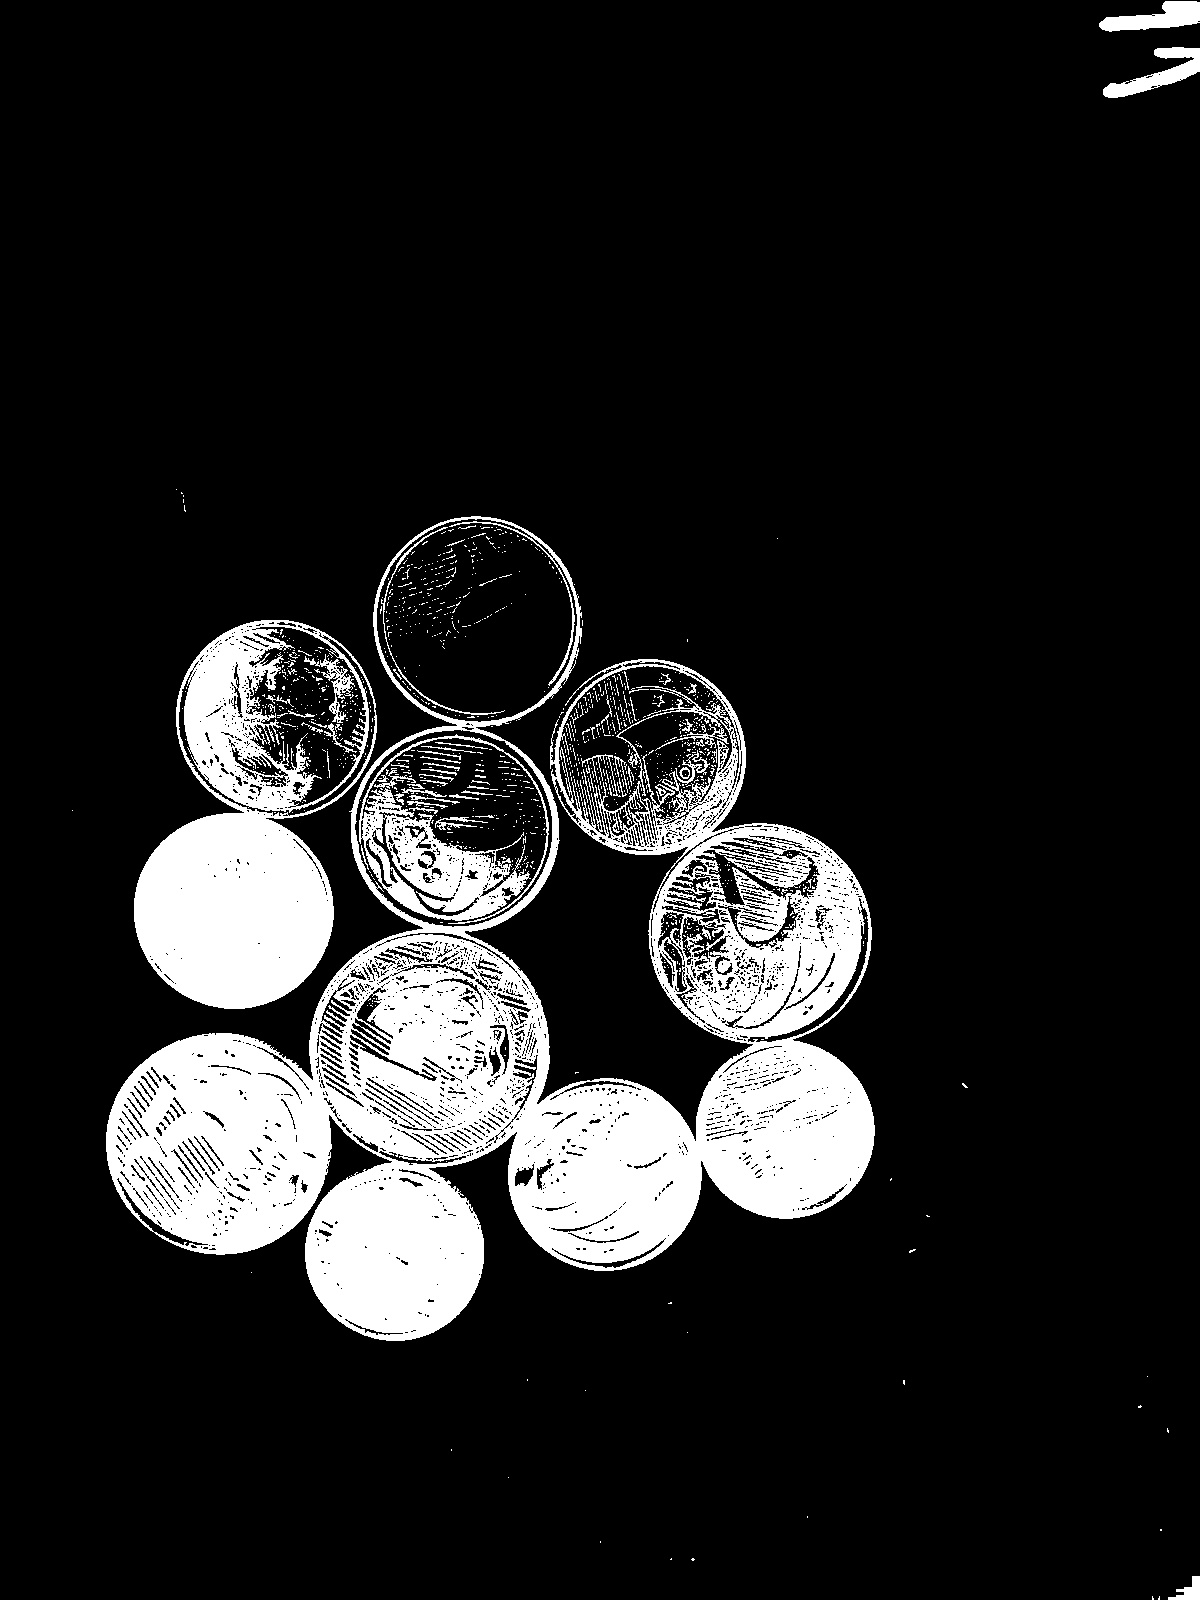
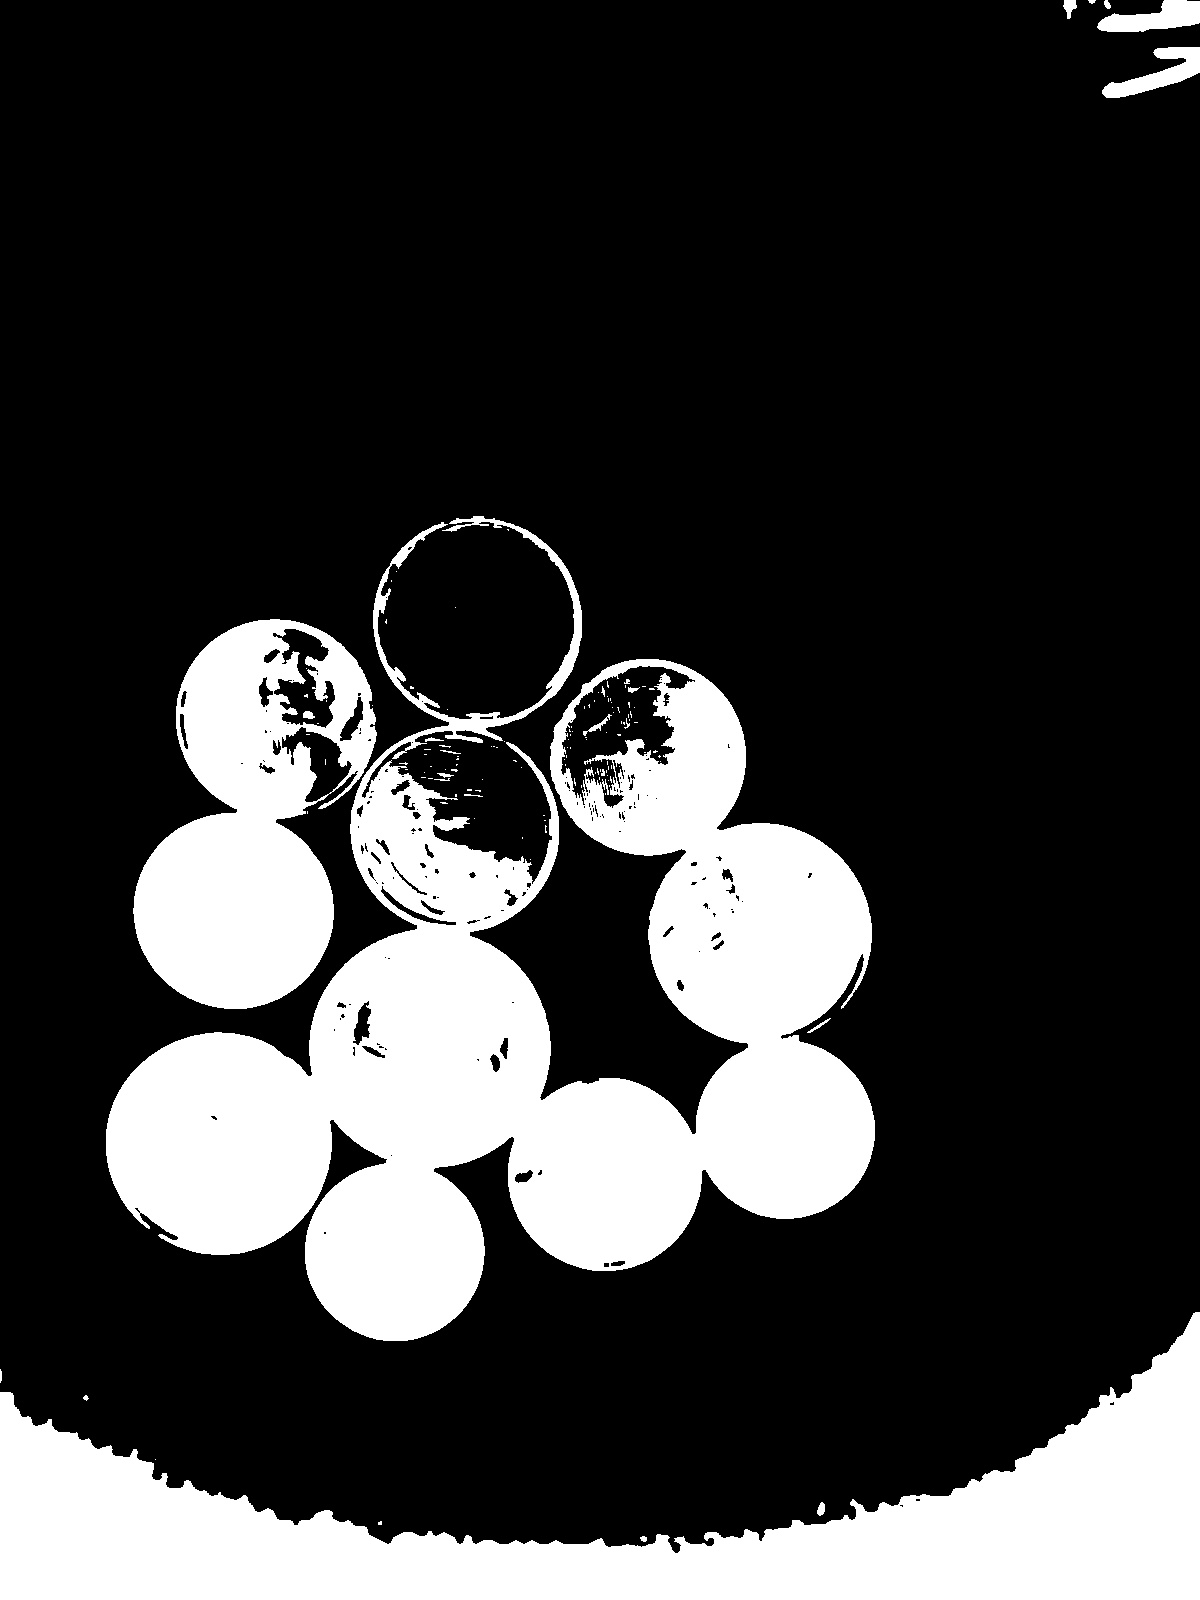
arquivo python, separação das funções, código procedural

diff --git a/ep.py b/ep.py
@@ -1,0 +1,63 @@
+import cv2
+import matplotlib.pyplot as plt
+import pathlib
+from process_functions import *
+
+def main():
+
+    master_path = pathlib.Path(__file__).parent.resolve()
+
+    # Paths das imagens
+    one_each = "{}/img/one_each.jpeg".format(master_path)
+    glued = "{}/img/glued.jpeg".format(master_path)
+    mess = "{}/img/mess.jpeg".format(master_path)
+    real_and_twentyFive = "{}/img/real_and_twentyFive.jpeg".format(master_path)
+
+    kernel = np.ones((2,2),np.uint8)
+    kernel_erosion = np.ones((20,20),np.uint8)
+
+    # Dict para usar o nome da variável na hora de salvar o arquivo alterado.
+    images_dict = {
+        'one_each': one_each,
+        'glued': glued,
+        'mess': mess,
+        'real_and_twentyFive': real_and_twentyFive
+    }
+
+
+    #Ajuste de brilho e contraste
+    for name, img_path in images_dict.items():
+        image = cv2.imread(img_path)
+        brilho = 100
+        contraste = 1.5
+        image = contrasteBrilho(image,brilho,contraste)
+
+    # Segunda etapa: um novo threshold para deixar a imagem mais "flat": sem as sombras das imagens
+    for name, img_path in images_dict.items():
+        image = cv2.imread(img_path)
+        image = cv2.medianBlur(image,11)
+        image = rgb_to_gray(image)
+        image = adapt_threshold(image)
+        image = cv2.morphologyEx(image, cv2.MORPH_CLOSE, kernel, iterations=39)
+        #image = cv2.erode(image, kernel_erosion, iterations=6)
+
+    # # Terceira etapa: fazendo o negativo da imagem para trabalhar com as cores certas.
+    # images_dict_edited = {
+    #     'one_each_': "{}/img/edited/t_hold_one_each.jpeg".format(master_path),
+    #     'glued_': "{}/img/edited/t_hold_glued.jpeg".format(master_path),
+    #     'mess_': "{}/img/edited/t_hold_mess.jpeg".format(master_path),
+    #     'real_and_twentyFive_': "{}/img/edited/t_hold_real_and_twentyFive.jpeg".format(master_path)
+    # }
+
+    # for name, img_path in images_dict_edited.items():
+    #     image = cv2.imread(img_path, cv2.IMREAD_GRAYSCALE)
+    #     median_blurred = cv2.medianBlur(image,7)
+    #     threshold_value = 135
+    #     binarized_image = threshold(median_blurred, threshold_value)
+    #     negative_image = negative(binarized_image)
+    #     cv2.imwrite("{}/img/edited/{}_negative.jpeg".format(master_path, name), negative_image)
+
+    show_image(image, "adaptive_threshold_no_filter")
+    cv2.destroyAllWindows()
+
+main()

diff --git a/process_functions.py b/process_functions.py
@@ -1,0 +1,38 @@
+import cv2
+import numpy as np
+import matplotlib.pyplot as plt
+
+#Funções de auxilio para plicar as transformações na imagem
+
+def contrasteBrilho(image,alpha,beta):
+    print("hello")
+    return cv2.convertScaleAbs(image, alpha, beta)
+
+
+def rgb_to_gray(image):
+
+    gray_image = cv2.cvtColor(image, cv2.COLOR_BGR2GRAY)
+    return gray_image
+
+def threshold(image, threshold_value):
+
+    _, binarized_image = cv2.threshold(image, threshold_value, 255, cv2.THRESH_BINARY)
+    return binarized_image
+
+def adapt_threshold(image):
+
+    binarized_image = cv2.adaptiveThreshold(image, 255, cv2.ADAPTIVE_THRESH_GAUSSIAN_C, cv2.THRESH_BINARY_INV, 21, 4)
+    return binarized_image
+
+def negative(image):
+
+    negative_image = cv2.bitwise_not(image)
+    return negative_image
+
+def show_image(image, name):
+    cv2.imshow("moedas_" + name, image)
+    k = cv2.waitKey(0)
+    if (k == ord("s")):
+        save_name = input()
+        cv2.imwrite(save_name + ".png", image)
+    return
